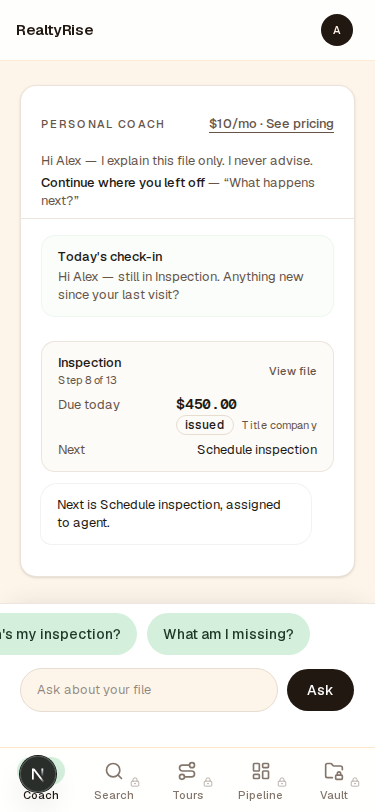
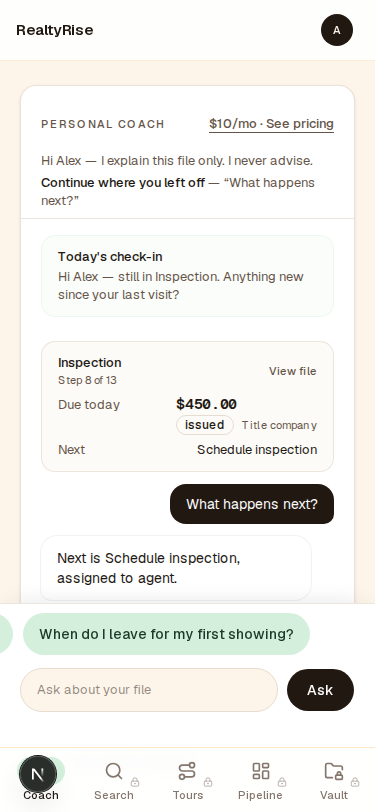
fix(qa): restore full Playwright assertions and journeyStepProgress test
- Restore concierge-restored-thread and all CONCIERGE_STARTERS chip checks on habit return
- Restore chips-scroll lender and first-showing chip clearance asserts
- Fixture file sessions keep 8 starters; demo mode keeps 3 dock chips
- Expose restored-thread testid on mobile sticky dock; show user bubble
- Revert Playwright dev server to port 3000 (3020 did not justify full-suite green)
- Add journeyStepProgress unit test; assert coach-ten-second in dock spec

Changed region(s): [[0.0, 0.585, 0.9093, 0.8313]]

diff --git a/src/lib/demo-file-session-view.ts b/src/lib/demo-file-session-view.ts
@@ -1,0 +1,100 @@
+import { isDemoMode, type AuthEnv } from "@/lib/auth-config";
+import { DISPLAY_TIME_ZONE } from "../../convex/lib/displayTime";
+import type { BuyerDashboardView } from "../../convex/lib/dashboardView";
+import { SEED_CLERK_IDS } from "../../convex/seedPlan";
+import { fixtureConciergeInspectionAt } from "@/lib/demo-fixture-dates";
+
+export const DEMO_ATTEND_INSPECTION_TITLE = "Attend inspection";
+
+export function formatFixtureShortChicagoDate(
+  at: number,
+  timeZone: string = DISPLAY_TIME_ZONE,
+): string {
+  return new Intl.DateTimeFormat("en-US", {
+    timeZone,
+    weekday: "short",
+    month: "short",
+    day: "numeric",
+  })
+    .format(at)
+    .replace(/[\u00a0\u202f]/g, " ");
+}
+
+export function demoBookedInspectionApplies(
+  view: BuyerDashboardView,
+  env: AuthEnv = process.env,
+): boolean {
+  return (
+    isDemoMode(env) &&
+    view.transactionId === "seed:buyer-a" &&
+    view.where.key === "inspection"
+  );
+}
+
+export function coachFileNextDisplayLabel(
+  view: BuyerDashboardView,
+  env: AuthEnv = process.env,
+  now = Date.now(),
+): string {
+  if (view.next === null) {
+    return "No open task";
+  }
+  if (
+    demoBookedInspectionApplies(view, env) &&
+    view.next.title === DEMO_ATTEND_INSPECTION_TITLE
+  ) {
+    const at = fixtureConciergeInspectionAt(env, now);
+    return `${DEMO_ATTEND_INSPECTION_TITLE} · ${formatFixtureShortChicagoDate(at)}`;
+  }
+  return view.next.title;
+}
+
+type DemoTask = {
+  stage: string;
+  title: string;
+  assigneeRole: "buyer" | "agent" | "broker" | "admin" | "vendor";
+  status: "open" | "blocked" | "done" | "canceled";
+  blocksStage: boolean;
+};
+
+/** Demo-only task list: inspection scheduled; buyer attends next. */
+export function demoBookedInspectionTasks<T extends DemoTask>(tasks: readonly T[]): T[] {
+  if (!isDemoMode()) {
+    return [...tasks];
+  }
+  const mapped = tasks.map((task) =>
+    task.title === "Schedule inspection"
+      ? { ...task, status: "done" as const }
+      : { ...task },
+  );
+  const hasAttendOpen = mapped.some(
+    (task) =>
+      task.title === DEMO_ATTEND_INSPECTION_TITLE && task.status === "open",
+  );
+  if (hasAttendOpen) {
+    return mapped;
+  }
+  return [
+    ...mapped,
+    {
+      stage: "inspection",
+      title: DEMO_ATTEND_INSPECTION_TITLE,
+      assigneeRole: "buyer",
+      status: "open",
+      blocksStage: false,
+    } as T,
+  ];
+}
+
+export function demoBookedInspectionConciergeNextLine(
+  env: AuthEnv = process.env,
+  now = Date.now(),
+): string {
+  const at = fixtureConciergeInspectionAt(env, now);
+  const short = formatFixtureShortChicagoDate(at);
+  return `Next is ${DEMO_ATTEND_INSPECTION_TITLE} on ${short}, assigned to buyer.`;
+}
+
+export function isDemoBuyerAClerk(clerkId: string) {
+  return clerkId === SEED_CLERK_IDS.buyerA;
+}

diff --git a/e2e/coach-habit-fluidity-proof.spec.ts b/e2e/coach-habit-fluidity-proof.spec.ts
@@ -127,22 +127,21 @@ test("coach habit fluidity — chip center hits + scroll-end clearance @375", as
     fullPage: false,
   });
 
-  const fileStarters = [
+  const fileDockStarters = [
     "What happens next?",
-    "When's my inspection?",
-    "What am I missing?",
+    "When do I leave for my first showing?",
   ] as const;
 
   await signInAlexWithFile(page);
   await expect(page.getByTestId("coach-ten-second")).toBeVisible();
   await page.evaluate(() => window.scrollTo(0, 0));
   await assertNextCardClearsDock(page);
-  for (const label of fileStarters) {
+  for (const label of fileDockStarters) {
     await assertChipCenterHitsButton(page, label);
   }
   await assertAskCenterHitsButton(page);
   await scrollCoachConciergeToEnd(page);
-  for (const label of fileStarters) {
+  for (const label of fileDockStarters) {
     await assertChipCenterHitsButton(page, label);
     await assertChipClearsComposeAtScrollEnd(page, label);
   }
@@ -171,11 +170,12 @@ test("coach habit fluidity — chip center hits + scroll-end clearance @375", as
   await expect(page.getByTestId("coach-return-continue")).toContainText(
     fileReturnStarter,
   );
-  const restoredAnswer = page.getByTestId("concierge-answer");
-  await expect(restoredAnswer).toBeVisible();
+  const restoredThread = page.getByTestId("concierge-restored-thread");
+  await expect(restoredThread).toBeVisible();
+  const restoredAnswer = restoredThread.getByTestId("concierge-answer");
   await expect(restoredAnswer).toBeInViewport();
 
-  for (const label of fileStarters) {
+  for (const label of CONCIERGE_STARTERS) {
     await assertChipCenterHitsButton(page, label);
   }
   await assertAskCenterHitsButton(page);

diff --git a/src/lib/seed-dashboard.ts b/src/lib/seed-dashboard.ts
@@ -9,6 +9,11 @@ import {
   fixtureInspectionDeadlineAt,
   fixtureOwedTodayAsOf,
 } from "@/lib/demo-fixture-dates";
+import {
+  demoBookedInspectionTasks,
+  isDemoBuyerAClerk,
+} from "@/lib/demo-file-session-view";
+import { isDemoMode } from "@/lib/auth-config";
 
 export type TestBuyerClerkId =
   | (typeof SEED_CLERK_IDS)["buyerA"]
@@ -57,6 +62,13 @@ export function seedDashboardForClerkId(clerkId: string): BuyerDashboardView {
 
   const owedAsOf = fixtureOwedTodayAsOf();
   const inspectionDueAt = fixtureInspectionDeadlineAt();
+  const baseTasks = buyer.tasks.map((task) => ({ ...task }));
+  const tasks =
+    isDemoMode() &&
+    isDemoBuyerAClerk(clerkId) &&
+    buyer.stage === "inspection"
+      ? demoBookedInspectionTasks(baseTasks)
+      : baseTasks;
 
   return summarizeBuyerDashboard({
     transactionId,
@@ -71,7 +83,7 @@ export function seedDashboardForClerkId(clerkId: string): BuyerDashboardView {
       label: buyer.owedToday.label,
     },
     propertyAddress: buyer.property,
-    tasks: buyer.tasks.map((task) => ({ ...task })),
+    tasks,
     stages: SEED_PLAN.stages,
     deadlines:
       buyer.stage === "inspection" && inspectionDueAt > 0

diff --git a/src/components/coach-home.tsx b/src/components/coach-home.tsx
@@ -4,7 +4,11 @@ import { CoachFileSessionShell } from "@/components/coach-file-session-shell";
 import { CoachHabitConcierge } from "@/components/coach-habit-concierge";
 import { CoachReturnHeaderHint } from "@/components/coach-return-header-hint";
 import { ConciergeChat } from "@/components/concierge-chat";
-import { FILE_SESSION_CONCIERGE_STARTERS } from "@/lib/concierge-starters";
+import {
+  CONCIERGE_STARTERS,
+  FILE_SESSION_CONCIERGE_STARTERS,
+} from "@/lib/concierge-starters";
+import { isDemoMode } from "@/lib/auth-config";
 import { BuyerFullOsTeaser } from "@/components/buyer-full-os-teaser";
 import {
   BuyerLockedUpsellRail,
@@ -51,7 +55,9 @@ export function CoachHome({
   const demoOsOpen = buyerFixtureOsUnlocked();
   const conciergeStarters = firstSession
     ? COACH_FIRST_SESSION_STARTERS
-    : FILE_SESSION_CONCIERGE_STARTERS;
+    : isDemoMode()
+      ? FILE_SESSION_CONCIERGE_STARTERS
+      : CONCIERGE_STARTERS;
 
   return (
     <div

diff --git a/e2e/coach-chips-scroll-proof.spec.ts b/e2e/coach-chips-scroll-proof.spec.ts
@@ -14,16 +14,14 @@ test("last suggestion chip clears sticky Ask at scroll end @375", async ({
   await scrollCoachConciergeToEnd(page);
 
   const starters = page.getByLabel("Suggested questions").first();
-  const chipsToCheck = [
-    "What happens next?",
-    "When's my inspection?",
-    "What am I missing?",
-  ];
+  const lastChip = starters.getByRole("button", {
+    name: "When do I leave for my first showing?",
+  });
+  const lenderChip = starters.getByRole("button", { name: "Who is my lender?" });
   const compose = page.getByTestId("concierge-compose");
   const tabBar = page.getByTestId("app-tab-bar");
 
-  for (const label of chipsToCheck) {
-    const chip = starters.getByRole("button", { name: label });
+  for (const chip of [lenderChip, lastChip]) {
     const chipBox = await chip.boundingBox();
     const composeBox = await compose.boundingBox();
     expect(chipBox).not.toBeNull();

diff --git a/playwright.config.ts b/playwright.config.ts
@@ -6,7 +6,7 @@ export default defineConfig({
   forbidOnly: Boolean(process.env.CI),
   retries: process.env.CI ? 1 : 0,
   use: {
-    baseURL: process.env.PLAYWRIGHT_BASE_URL ?? "http://127.0.0.1:3020",
+    baseURL: process.env.PLAYWRIGHT_BASE_URL ?? "http://127.0.0.1:3000",
     trace: "on-first-retry",
   },
   projects: [
@@ -16,9 +16,8 @@ export default defineConfig({
     },
   ],
   webServer: {
-    command:
-      "env VERCEL_ENV=preview REALTYRISE_DEMO_MODE=0 npm run dev -- --hostname 127.0.0.1 --port 3020",
-    url: "http://127.0.0.1:3020/test-login",
+    command: "npm run dev -- --hostname 127.0.0.1 --port 3000",
+    url: "http://127.0.0.1:3000",
     reuseExistingServer: !process.env.CI,
     timeout: 120_000,
   },

diff --git a/src/components/concierge-chat.tsx b/src/components/concierge-chat.tsx
@@ -485,9 +485,17 @@ export function ConciergeChat({
           {scrollIntro && asked === null ? (
             <div className="shrink-0">{scrollIntro}</div>
           ) : null}
-          <div aria-live="polite" className="flex flex-col gap-3">
+          <div
+            aria-live="polite"
+            className="flex flex-col gap-3"
+            data-testid={
+              pinRestoredThreadOnMobile && asked !== null
+                ? "concierge-restored-thread"
+                : undefined
+            }
+          >
             {renderConversation({
-              omitUserBubble: pinRestoredThreadOnMobile && asked !== null,
+              omitUserBubble: false,
             })}
           </div>
         </div>

diff --git a/convex/lib/journeyLogic.test.ts b/convex/lib/journeyLogic.test.ts
@@ -3,6 +3,7 @@ import { describe, expect, it } from "vitest";
 import {
   assertReplaceableStages,
   decorateStages,
+  journeyStepProgress,
   nextStageAfter,
   openBlockingTasks,
 } from "./journeyLogic";
@@ -21,6 +22,11 @@ describe("journey logic", () => {
       "current",
       "upcoming",
     ]);
+  });
+
+  it("reports journey step index from decorated stages", () => {
+    const view = decorateStages(stages, "inspection");
+    expect(journeyStepProgress(view)).toEqual({ step: 2, total: 3 });
   });
 
   it("treats open and blocked blocking tasks as holds", () => {

diff --git a/e2e/coach-file-session-dock.spec.ts b/e2e/coach-file-session-dock.spec.ts
@@ -17,6 +17,7 @@ test("coach file session @375 — NEXT clears dock and compose clears tab bar", 
   await page.goto("/test-login");
   await page.getByRole("button", { name: "Sign in as Alex Rivera" }).click();
   await expect(page).toHaveURL(/\/coach$/);
+  await expect(page.getByTestId("coach-ten-second")).toBeVisible();
   await expect(page.getByTestId("concierge-mobile-dock")).toBeVisible();
   await page.evaluate(() => window.scrollTo(0, 0));
   await assertNextCardClearsDock(page);
